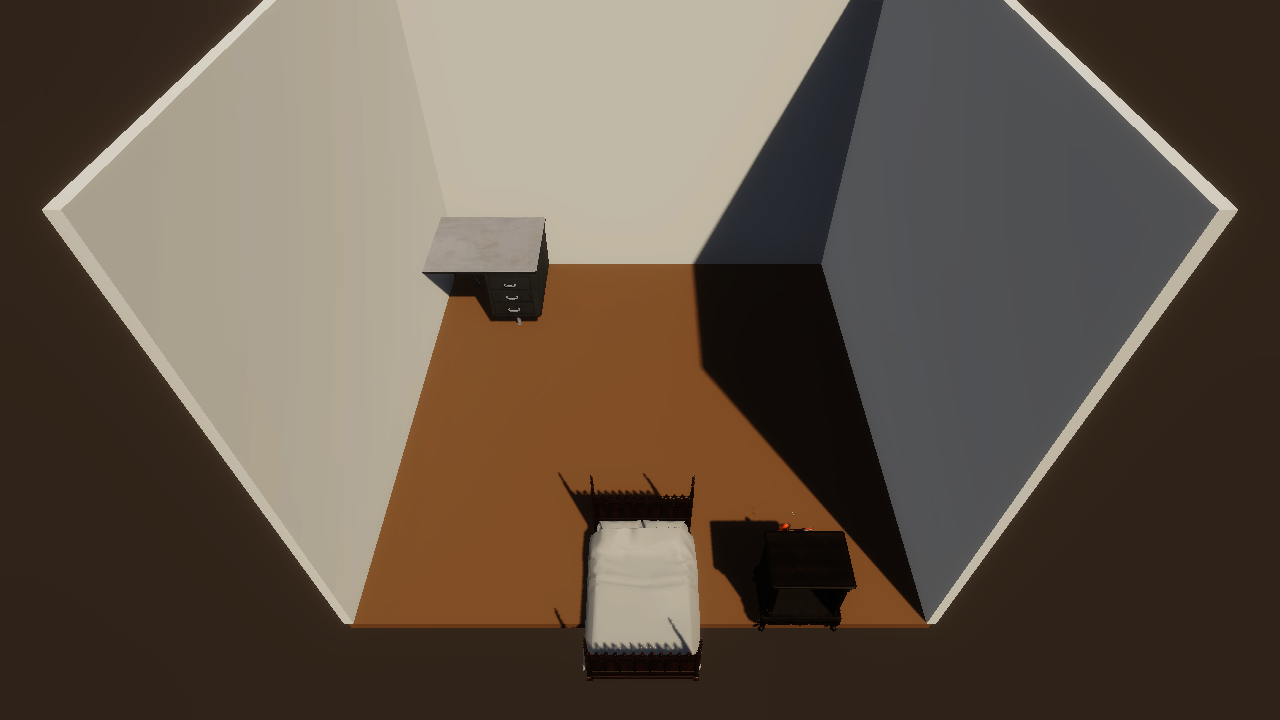
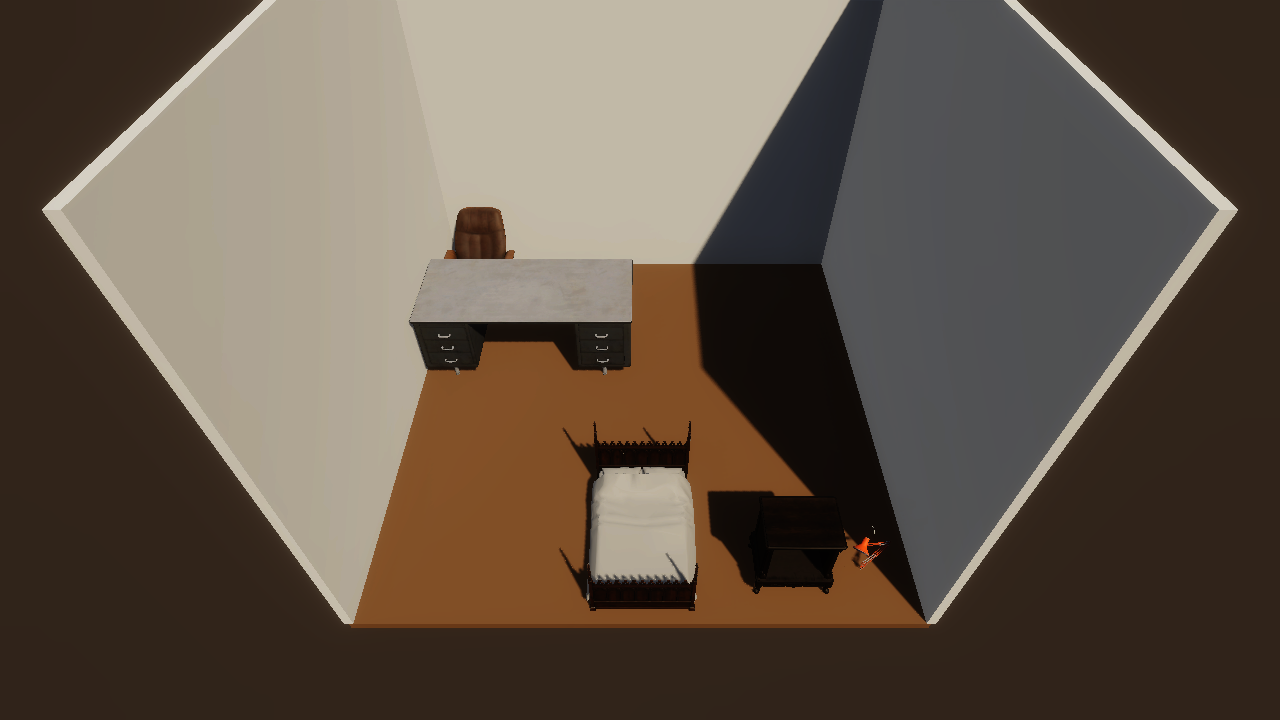
fix(paper03): §4.3 그림 7~12 벽 통과 회귀 — bounds-aware clamp + wall collider 추가 + push-out iter 20 + 보수 clamp + figure 6매 재측정

Changed region(s): [[0.4375, 0.5806, 0.6875, 0.9472], [0.3125, 0.275, 0.5, 0.5194]]

diff --git a/SplatForge-UnityClient/Assets/SplatForge/Editor/Paper03/Paper03Runner.cs b/SplatForge-UnityClient/Assets/SplatForge/Editor/Paper03/Paper03Runner.cs
@@ -1,14 +1,18 @@
 // Paper03Runner.cs — batchmode entry for Paper03 experiment
 //
-// 그림 7~12 정식 PBR 렌더 파이프라인 (2026-05-07 v4 — 시나리오별 룸·iterative 충돌 해소·시점 보정):
+// 그림 7~12 정식 PBR 렌더 파이프라인 (2026-05-07 v5 — 벽 통과 회귀 차단 삼중 안전망):
 //   (1) Polyhaven 동봉 PBR 텍스처(diff/nor_gl/arm)를 HDRP/Lit Material 에 직접 바인딩
 //   (2) HDRP Volume(Exposure + Tonemapping ACES) + Directional Sun(Lux)
 //   (3) 회전 근본 보정: auto_lay_fix 휴리스틱 제거. spec.position.y → 0 클램프 +
 //       ground-snap 이 실제 Renderer.bounds.size.y 사용.
 //   (4) v4 시나리오별 룸 (T1): bedroom/office 3.0×3.0m, living_room 3.5×3.5m, 벽 H=2.5m.
-//   (5) v4 §3.4 iterative push-out (T2): ground-snap 후 OverlapBox pair-wise 검사,
-//       작은 객체를 큰 객체로부터 half-overlap 만큼 XZ 평면에서 밀어냄. 최대 10회 반복.
-//       resolved_overlaps 카운트를 metric JSON 에 기록.
+//   (5) v5 §3.4 iterative push-out (T2): ground-snap 후 OverlapBox pair-wise 검사,
+//       작은 객체를 큰 객체로부터 half-overlap 만큼 XZ 평면에서 밀어냄. MAX_ITER 20 회.
+//       각 iter 후 가구↔벽 회수 단계 추가 — bounds.min/max 가 룸 한계 (floorHalf-0.05) 를
+//       넘으면 안쪽으로 정확히 밀어낸다. resolved_overlaps 카운트를 metric JSON 에 기록.
+//   (7) v5 §4.3 벽 통과 회귀 차단 (F1+F2+F3): F1 — per-object bounds-aware 클램프
+//       (Renderer.bounds.extents 기반 5cm 마진). F2 — push-out 에 가구↔벽 회수 단계.
+//       F3 — CLAMP 보수화 (3m 룸 1.4→1.2, 3.5m 룸 1.65→1.5).
 //   (6) v4 카메라 (T3): pos (0, 3.5, -3.0), LookAt (0, 0.4, 0), FOV 55 — diorama
 //       elevated angle 로 객체 배치를 위에서 비스듬히 내려다본다.
 
@@ -286,24 +290,26 @@ namespace SplatForge.EditorPaper03
 
             SetupHdrpVolume();
 
-            // T1 (2026-05-07 v4) — 시나리오별 룸 크기. 마스터 지시:
-            //   bedroom : 3.0×3.0m  → CLAMP ±1.4
-            //   office  : 3.0×3.0m  → CLAMP ±1.4
-            //   living  : 3.5×3.5m  → CLAMP ±1.65
+            // T1 (2026-05-07 v5) — 시나리오별 룸 크기 + 보수 CLAMP (벽 통과 회귀 차단):
+            //   bedroom : 3.0×3.0m  → CLAMP ±1.2 (v4 1.4 → 보수 0.2m)
+            //   office  : 3.0×3.0m  → CLAMP ±1.2
+            //   living  : 3.5×3.5m  → CLAMP ±1.5 (v4 1.65 → 보수 0.15m)
             //   기타    : 4.0×4.0m fallback (기존 동작 유지) → CLAMP ±1.7
-            // 벽 높이 2.5m 고정. 벽 두께 0.05m. CLAMP 는 벽 안쪽 0.1m 마진까지 흡수.
+            // 벽 높이 2.5m 고정. 벽 두께 0.05m. CLAMP 는 객체 중심에 대한 한계.
+            // F1 (per-object bounds-aware) + F2 (push-out wall awareness, MAX_ITER 20) +
+            // F3 (보수 CLAMP) 삼중 안전망 — Renderer.bounds.extents 기반 per-object 마진 5cm.
             float ROOM_W, ROOM_D;
             float CLAMP_X, CLAMP_Z;
             string scn = (spec.scenario ?? "").ToLowerInvariant();
             if (scn == "cozy_bedroom" || scn == "modern_office")
             {
                 ROOM_W = 3.0f; ROOM_D = 3.0f;
-                CLAMP_X = 1.4f; CLAMP_Z = 1.4f;
+                CLAMP_X = 1.2f; CLAMP_Z = 1.2f;
             }
             else if (scn == "living_room")
             {
                 ROOM_W = 3.5f; ROOM_D = 3.5f;
-                CLAMP_X = 1.65f; CLAMP_Z = 1.65f;
+                CLAMP_X = 1.5f; CLAMP_Z = 1.5f;
             }
             else
             {
@@ -479,17 +485,47 @@ namespace SplatForge.EditorPaper03
 
             Physics.SyncTransforms();
 
+            // F1 (2026-05-07 v5) — bounds-aware per-object 벽 통과 차단.
+            // 객체 중심을 ±CLAMP 로 자르더라도 Renderer.bounds.extents 가 (CLAMP, floorHalf)
+            // 사이 거리보다 크면 가장자리가 벽을 뚫는다. 객체별 bounds 측정 후 CLAMP 보다
+            // 더 보수적인 마진으로 재클램프 (5cm 안전여유).
+            float floorHalfX = ROOM_W * 0.5f;
+            float floorHalfZ = ROOM_D * 0.5f;
+            for (int i = 0; i < spawned.Count; i++)
+            {
+                var go = spawned[i];
+                var rb = ComputeRendererBounds(go);
+                float marginX = Mathf.Min(CLAMP_X, floorHalfX - rb.extents.x - 0.05f);
+                float marginZ = Mathf.Min(CLAMP_Z, floorHalfZ - rb.extents.z - 0.05f);
+                marginX = Mathf.Max(marginX, 0.0f);
+                marginZ = Mathf.Max(marginZ, 0.0f);
+                var pos = go.transform.position;
+                pos.x = Mathf.Clamp(pos.x, -marginX, marginX);
+                pos.z = Mathf.Clamp(pos.z, -marginZ, marginZ);
+                go.transform.position = pos;
+            }
+            Physics.SyncTransforms();
+
             // T2 (§3.4 LayoutValidator iterative push-out) — pair-wise OverlapBox 기반
             // 충돌 해소. 작은 객체(Renderer.bounds.size 의 합이 작은 쪽)를 큰 객체로부터
             // half-overlap 거리만큼 XZ 평면 외측 방향으로 밀어내고, 룸 클램프 후 재측정.
             // 충돌이 사라지거나 최대 10회 반복까지 수행. llm_only 절제 조건 외 모두 적용.
+            // T2 (v5) — pair-wise OverlapBox push-out + wall awareness. MAX_ITER 20.
+            // (a) 가구↔가구 충돌은 작은 객체를 큰 객체로부터 half-overlap 외측으로 밀어낸다.
+            //     룸 클램프는 per-object bounds 마진 (F1 과 동일 공식) 으로 대체 — CLAMP 직접
+            //     사용 시 큰 객체가 벽을 뚫는 회귀 발생.
+            // (b) 가구↔벽 충돌은 객체 bounds.min/max 가 floor 한계선을 넘는지 검사하고,
+            //     초과분만큼 룸 안쪽으로 밀어낸다. F1 이 이미 한 번 처리했지만 push-out 결과로
+            //     벽 밖으로 밀려난 경우 회수한다.
             int resolvedOverlaps = 0;
             if (condition != "llm_only")
             {
-                const int MAX_ITER = 10;
+                const int MAX_ITER = 20;
                 for (int it = 0; it < MAX_ITER; it++)
                 {
                     bool anyResolved = false;
+
+                    // (a) 가구↔가구 push-out
                     for (int i = 0; i < spawned.Count; i++)
                     {
                         for (int j = i + 1; j < spawned.Count; j++)
@@ -522,14 +558,46 @@ namespace SplatForge.EditorPaper03
                             if (sizeA < sizeB) { mover = ga; dirMover = -dir; }
                             else                { mover = gb; dirMover =  dir; }
                             var pp = mover.transform.position;
-                            float nx = Mathf.Clamp(pp.x + dirMover.x * push, -CLAMP_X, CLAMP_X);
-                            float nz = Mathf.Clamp(pp.z + dirMover.z * push, -CLAMP_Z, CLAMP_Z);
+                            // per-object 마진 사용 (F1 공식과 동일).
+                            var rbm = ComputeRendererBounds(mover);
+                            float mvMarginX = Mathf.Max(0f, Mathf.Min(CLAMP_X, floorHalfX - rbm.extents.x - 0.05f));
+                            float mvMarginZ = Mathf.Max(0f, Mathf.Min(CLAMP_Z, floorHalfZ - rbm.extents.z - 0.05f));
+                            float nx = Mathf.Clamp(pp.x + dirMover.x * push, -mvMarginX, mvMarginX);
+                            float nz = Mathf.Clamp(pp.z + dirMover.z * push, -mvMarginZ, mvMarginZ);
                             mover.transform.position = new Vector3(nx, pp.y, nz);
                             anyResolved = true;
                             resolvedOverlaps++;
                         }
                     }
                     Physics.SyncTransforms();
+
+                    // (b) 가구↔벽 회수: bounds 가 룸 한계 ±(floorHalf - 0.05) 를 넘으면
+                    //     안쪽으로 정확히 밀어낸다.
+                    for (int i = 0; i < spawned.Count; i++)
+                    {
+                        var go = spawned[i];
+                        var rbb = ComputeRendererBounds(go);
+                        float wallLimitX = floorHalfX - 0.05f;
+                        float wallLimitZ = floorHalfZ - 0.05f;
+                        float dxPenL = -wallLimitX - rbb.min.x; // >0 if penetrating left wall
+                        float dxPenR = rbb.max.x - wallLimitX;  // >0 if penetrating right wall
+                        float dzPenB = -wallLimitZ - rbb.min.z; // back wall (+Z) check is max
+                        float dzPenF = rbb.max.z - wallLimitZ;
+                        var pp = go.transform.position;
+                        float adjX = 0f, adjZ = 0f;
+                        if (dxPenL > 0f) adjX += dxPenL;
+                        if (dxPenR > 0f) adjX -= dxPenR;
+                        if (dzPenB > 0f) adjZ += dzPenB;
+                        if (dzPenF > 0f) adjZ -= dzPenF;
+                        if (Mathf.Abs(adjX) > 1e-4f || Mathf.Abs(adjZ) > 1e-4f)
+                        {
+                            go.transform.position = new Vector3(pp.x + adjX, pp.y, pp.z + adjZ);
+                            anyResolved = true;
+                            resolvedOverlaps++;
+                        }
+                    }
+                    Physics.SyncTransforms();
+
                     if (!anyResolved) break;
                 }
             }
